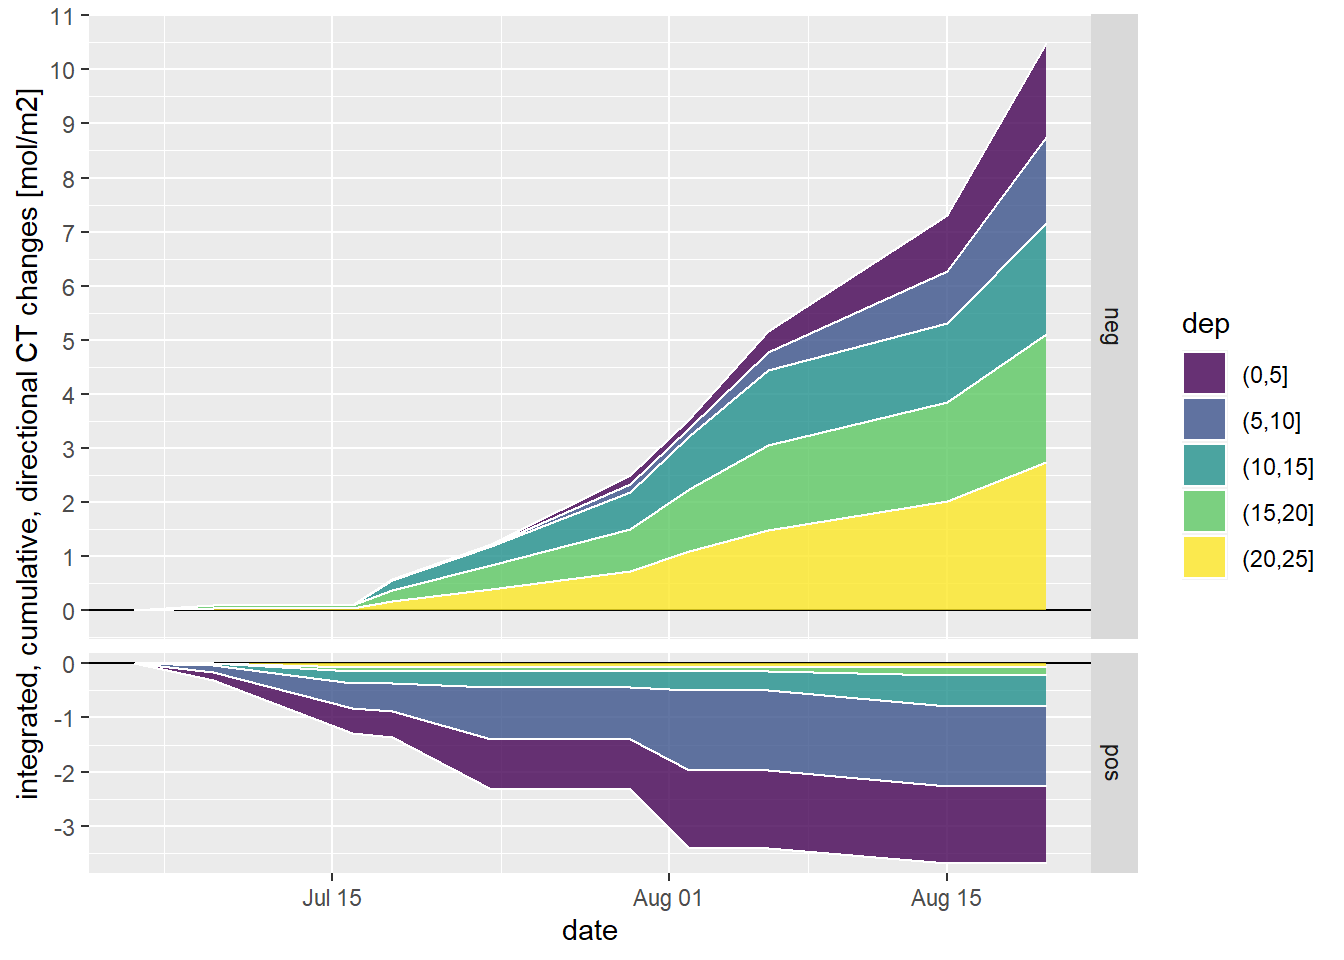
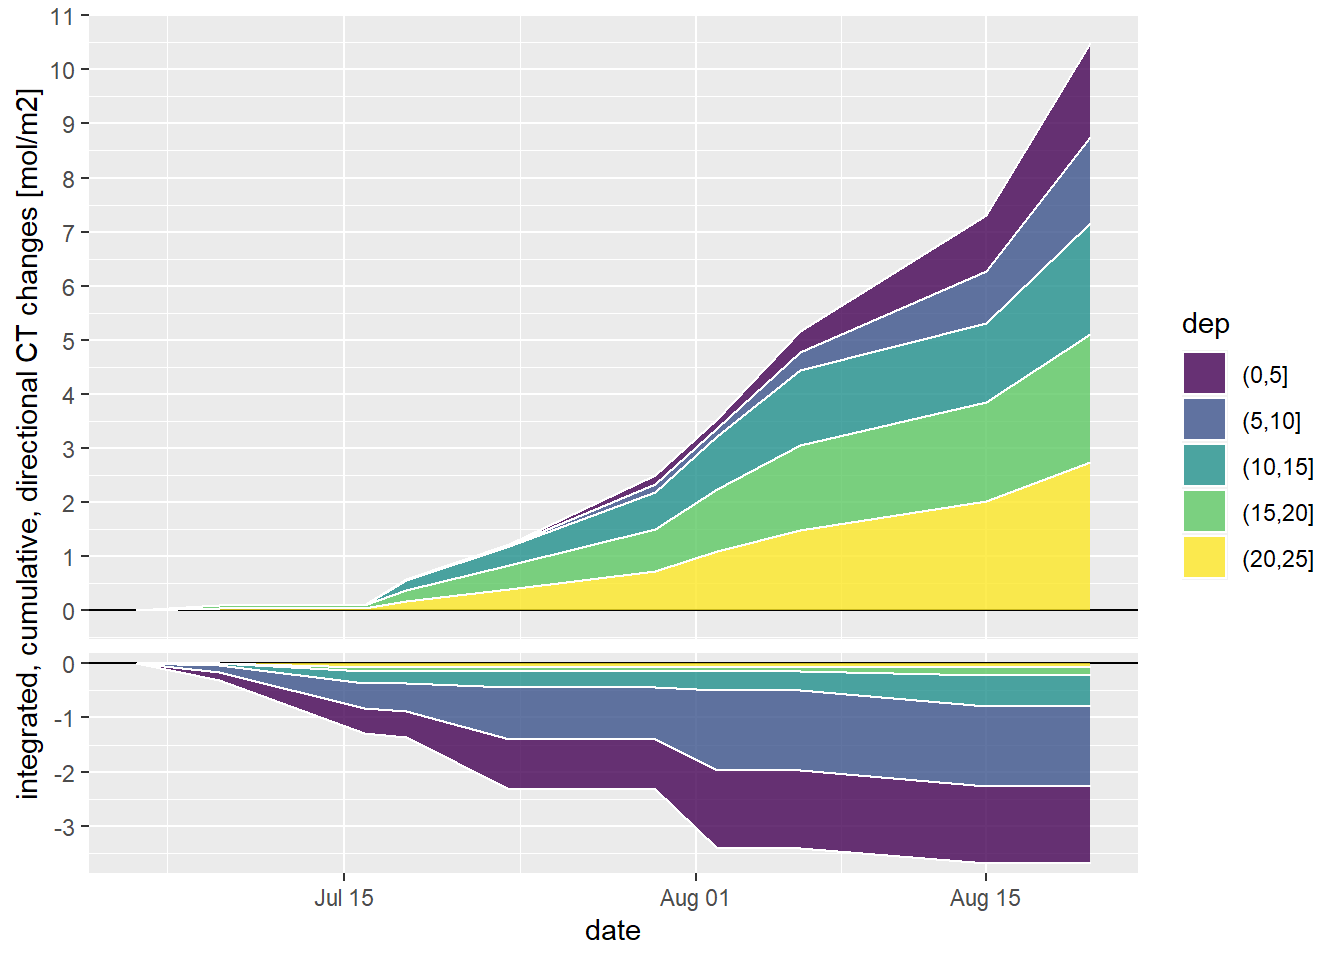
Build site.

diff --git a/docs/CT_dynamics.html b/docs/CT_dynamics.html
@@ -536,10 +536,10 @@ This reproducible <a href="http://rmarkdown.rstudio.com">R Markdown</a> analysis
 <div class="panel panel-default">
 <div class="panel-heading">
 <p class="panel-title">
-<a data-toggle="collapse" data-parent="#workflowr-checks" href="#strongRepositoryversionstrongahrefhttpsgithubcomjensdanielmuellerBloomSailtreef49ce78698e59e99df795845d046524cb24ccbdctargetblankf49ce78a"> <span class="glyphicon glyphicon-ok text-success" aria-hidden="true"></span> <strong>Repository version:</strong> <a href="https://github.com/jens-daniel-mueller/BloomSail/tree/f49ce78698e59e99df795845d046524cb24ccbdc" target="_blank">f49ce78</a> </a>
+<a data-toggle="collapse" data-parent="#workflowr-checks" href="#strongRepositoryversionstrongahrefhttpsgithubcomjensdanielmuellerBloomSailtree39b841d766f959c5a6b80198d430c662d28478fatargetblank39b841da"> <span class="glyphicon glyphicon-ok text-success" aria-hidden="true"></span> <strong>Repository version:</strong> <a href="https://github.com/jens-daniel-mueller/BloomSail/tree/39b841d766f959c5a6b80198d430c662d28478fa" target="_blank">39b841d</a> </a>
 </p>
 </div>
[2 lines of base64/hex data omitted]
 <div class="panel-body">
 <p>
 Great! You are using Git for version control. Tracking code development and connecting the code version to the results is critical for reproducibility. The version displayed above was the version of the Git repository at the time these results were generated. <br><br> Note that you need to be careful to ensure that all relevant files for the analysis have been committed to Git prior to generating the results (you can use <code>wflow_publish</code> or <code>wflow_git_commit</code>). workflowr only checks the R Markdown file, but you know if there are other scripts or data files that it depends on. Below is the status of the Git repository when the results were generated:
@@ -554,7 +554,7 @@ Ignored files:
     Ignored:    data/_summarized_data_files/
 
 Untracked files:
-    Untracked:  output/Plots/sensor_data/
+    Untracked:  output/Plots/CT_dynamics/
 
 </code></pre>
 <p>
@@ -680,7 +680,7 @@ df &lt;- full_join(df, profiles_in)
 rm(profiles_in)
 
 df %&gt;% 
-  #filter(dep &lt; 30) %&gt;% 
+  filter(dep &lt; 30) %&gt;% 
   arrange(date_time) %&gt;% 
   ggplot(aes(pCO2, dep, col=select))+
   geom_point()+
@@ -893,8 +893,129 @@ Mean vertical profiles per cruise day across all stations, except P14.
 </p>
 </div>
 </div>
+<div id="individual-profiles" class="section level2">
+<h2><span class="header-section-number">3.3</span> Individual profiles</h2>
+<pre class="r"><code>pdf(file=here::here(&quot;output/Plots/CT_dynamics&quot;,
+    &quot;profiles_individual.pdf&quot;), onefile = TRUE, width = 9, height = 5)
+
+for(i_ID in unique(df$ID)){
+  for(i_station in unique(df$station)){
+
+    if (nrow(df %&gt;% filter(ID == i_ID, station == i_station)) &gt; 0){
+      
+      
+      # i_ID      &lt;-      unique(df$ID)[1]
+      # i_station &lt;- unique(df$station)[1]
+
+      p_pCO2 &lt;- 
+        df %&gt;%
+        arrange(date_time) %&gt;% 
+        filter(ID == i_ID,
+               station == i_station) %&gt;%
+        ggplot(aes(pCO2, dep))+
+        geom_point(aes(pCO2_raw, dep), col=&quot;lightgrey&quot;)+
+        geom_point()+
+        geom_path()+
+        scale_y_reverse()+
+        scale_color_brewer(palette = &quot;Set1&quot;)+
+        labs(y=&quot;Depth [m]&quot;, x=&quot;pCO2 [µatm]&quot;, title = str_c(i_ID,&quot; | &quot;,i_station))+
+        coord_cartesian(xlim = c(0,200), ylim = c(30,0))+
+        theme_bw()+
+        theme(legend.position = &quot;left&quot;)
+      
+      p_tem &lt;- 
+        df %&gt;%
+        arrange(date_time) %&gt;% 
+        filter(ID == i_ID,
+               station == i_station) %&gt;%
+        ggplot(aes(tem, dep))+
+        geom_point()+
+        geom_path()+
+        scale_y_reverse()+
+        labs(y=&quot;Depth [m]&quot;, x=&quot;Tem [°C]&quot;)+
+        coord_cartesian(xlim = c(14,26), ylim = c(30,0))+
+        theme_bw()
+      
+      p_sal &lt;- 
+        df %&gt;%
+        arrange(date_time) %&gt;% 
+        filter(ID == i_ID,
+               station == i_station) %&gt;%
+        ggplot(aes(sal, dep))+
+        geom_point()+
+        geom_path()+
+        scale_y_reverse()+
+        labs(y=&quot;Depth [m]&quot;, x=&quot;Tem [°C]&quot;)+
+        coord_cartesian(xlim = c(6.5,7.5), ylim = c(30,0))+
+        theme_bw()
+      
+      p_CT &lt;- 
+        df %&gt;%
+        arrange(date_time) %&gt;% 
+        filter(ID == i_ID,
+               station == i_station) %&gt;%
+        ggplot(aes(CT, dep))+
+        geom_point()+
+        geom_path()+
+        scale_y_reverse()+
+        labs(y=&quot;Depth [m]&quot;, x=&quot;CT* [µmol/kg]&quot;)+
+        coord_cartesian(xlim = c(1400,1700), ylim = c(30,0))+
+        theme_bw()
+      
+
+      print(
+            p_pCO2 + p_tem + p_sal + p_CT
+            )
+      
+      rm(p_pCO2, p_sal, p_tem, p_CT)
+
+      
+    }
+  }
+}
+
+dev.off()
+
+rm(i_ID, i_station)</code></pre>
+<pre class="r"><code>df_long &lt;- df %&gt;%
+  select(-c(lat, lon, pCO2_raw)) %&gt;% 
+  filter(dep &lt; 25) %&gt;% 
+  pivot_longer(5:8, values_to = &quot;value&quot;, names_to = &quot;parameter&quot;)
+
+
+pdf(file=here::here(&quot;output/Plots/CT_dynamics&quot;,
+    &quot;profiles_by_ID.pdf&quot;), onefile = TRUE, width = 9, height = 5)
+
+for(i_ID in unique(df$ID)){
+
+  #i_ID &lt;- unique(df$ID)[1]
+  
+  sub_df_long &lt;- df_long %&gt;% 
+        arrange(date_time) %&gt;% 
+        filter(ID == i_ID)
+ 
+  print(
+  
+  sub_df_long %&gt;% 
+    ggplot()+
+    geom_path(data = df_long, aes(value, dep, group=interaction(station, ID)), col=&quot;grey&quot;)+
+    geom_path(aes(value, dep, col=station))+
+    scale_y_reverse()+
+    labs(y=&quot;Depth [m]&quot;, title = str_c(&quot;ID: &quot;, i_ID))+
+    theme_bw()+
+    facet_wrap(~parameter, scales = &quot;free_x&quot;)
+   
+  )  
+  rm(sub_df_long)
+}
+
+dev.off()
+
+rm(i_ID, df_long)</code></pre>
+<p>C<sub>T</sub>, pCO<sub>2</sub>, S, and T profiles were plotted individually <a href="https://github.com/jens-daniel-mueller/BloomSail/tree/master/output/Plots/CT_dynamics/profiles_individual.pdf" target="_blank">pdf here</a> and grouped by ID <a href="https://github.com/jens-daniel-mueller/BloomSail/tree/master/output/Plots/CT_dynamics/profiles_by_ID.pdf" target="_blank">pdf here</a>.</p>
+</div>
 <div id="profiles-of-incremental-changes" class="section level2">
-<h2><span class="header-section-number">3.3</span> Profiles of incremental changes</h2>
+<h2><span class="header-section-number">3.4</span> Profiles of incremental changes</h2>
 <p>Changes of seawater parameters at each depth are calculated from one cruise day to next and divided by the number of days inbetween.</p>
 <pre class="r"><code>mean_profiles_long &lt;- mean_profiles_long %&gt;%
     group_by(parameter, dep) %&gt;%
@@ -918,7 +1039,7 @@ mean_profiles_long %&gt;%
 <p><img src="figure/CT_dynamics.Rmd/incremental_changes_profiles-1.png" width="672" style="display: block; margin: auto;" /></p>
 </div>
 <div id="profiles-of-cumulative-changes" class="section level2">
-<h2><span class="header-section-number">3.4</span> Profiles of cumulative changes</h2>
+<h2><span class="header-section-number">3.5</span> Profiles of cumulative changes</h2>
 <p>Cumulative changes of seawater parameters at each depth relative to the first cruise day on July 5.</p>
 <pre class="r"><code>mean_profiles_long %&gt;% 
   arrange(dep) %&gt;% 
@@ -1013,6 +1134,8 @@ NCP %&gt;%
   scale_color_viridis_d()+
   scale_y_continuous(breaks = seq(-100, 100, 1))+
   facet_grid(rev(sign)~., scales = &quot;free_y&quot;, space = &quot;free_y&quot;)+
+  theme(strip.background = element_blank(),
+        strip.text = element_blank())+
   labs(y=&quot;integrated, cumulative, directional CT changes [mol/m2]&quot;, x=&quot;date&quot;)</code></pre>
 <p><img src="figure/CT_dynamics.Rmd/integrated_NCP-1.png" width="672" style="display: block; margin: auto;" /></p>
 <pre class="r"><code>mean_profiles %&gt;% 
@@ -1035,88 +1158,6 @@ mean_profiles_long %&gt;%
   geom_point()+
   scale_color_divergent()+
   scale_y_reverse()</code></pre>
-<pre class="r"><code>pdf(file=here::here(&quot;output/Plots/sensor_data&quot;,
-    &quot;profiles_check.pdf&quot;), onefile = TRUE, width = 9, height = 5)
-
-for(i_ID in unique(df$ID)){
-  for(i_station in unique(df$station)){
-
-    if (nrow(df %&gt;% filter(ID == i_ID, station == i_station)) &gt; 0){
-      
-      
-      # i_ID      &lt;-      unique(df$ID)[1]
-      # i_station &lt;- unique(df$station)[1]
-
-      p_pCO2 &lt;- 
-        df %&gt;%
-        arrange(date_time) %&gt;% 
-        filter(ID == i_ID,
-               station == i_station) %&gt;%
-        ggplot(aes(pCO2, dep))+
-        geom_point(aes(pCO2_raw, dep), col=&quot;lightgrey&quot;)+
-        geom_point()+
-        geom_path()+
-        scale_y_reverse()+
-        scale_color_brewer(palette = &quot;Set1&quot;)+
-        labs(y=&quot;Depth [m]&quot;, x=&quot;pCO2 [µatm]&quot;, title = str_c(i_ID,&quot; | &quot;,i_station))+
-        coord_cartesian(xlim = c(0,200), ylim = c(30,0))+
-        theme_bw()+
-        theme(legend.position = &quot;left&quot;)
-      
-      p_tem &lt;- 
-        df %&gt;%
-        arrange(date_time) %&gt;% 
-        filter(ID == i_ID,
-               station == i_station) %&gt;%
-        ggplot(aes(tem, dep))+
-        geom_point()+
-        geom_path()+
-        scale_y_reverse()+
-        labs(y=&quot;Depth [m]&quot;, x=&quot;Tem [°C]&quot;)+
-        coord_cartesian(xlim = c(14,26), ylim = c(30,0))+
-        theme_bw()
-      
-      p_sal &lt;- 
-        df %&gt;%
-        arrange(date_time) %&gt;% 
-        filter(ID == i_ID,
-               station == i_station) %&gt;%
-        ggplot(aes(sal, dep))+
-        geom_point()+
-        geom_path()+
-        scale_y_reverse()+
-        labs(y=&quot;Depth [m]&quot;, x=&quot;Tem [°C]&quot;)+
-        coord_cartesian(xlim = c(6.5,7.5), ylim = c(30,0))+
-        theme_bw()
-      
-      p_CT &lt;- 
-        df %&gt;%
-        arrange(date_time) %&gt;% 
-        filter(ID == i_ID,
-               station == i_station) %&gt;%
-        ggplot(aes(CT, dep))+
-        geom_point()+
-        geom_path()+
-        scale_y_reverse()+
-        labs(y=&quot;Depth [m]&quot;, x=&quot;CT* [µmol/kg]&quot;)+
-        coord_cartesian(xlim = c(1400,1700), ylim = c(30,0))+
-        theme_bw()
-      
-
-      print(
-            p_pCO2 + p_tem + p_sal + p_CT
-            )
-      
-      rm(p_pCO2, p_sal, p_tem, p_CT)
-
-      
-    }
-  }
-}
-
-dev.off()
-
-rm(i_ID, i_station)</code></pre>
 </div>
 </div>
 <div id="open-tasks-questions" class="section level1">
@@ -1124,7 +1165,7 @@ rm(i_ID, i_station)</code></pre>
 <ul>
 <li>Significance of changes in AT for calculated CT changes</li>
 <li>Harmonize selection of profiles for tau optimization and BGC interpretation (how many missing discrete depth intervals are allowed?)</li>
-<li>Vergleich der Stationen</li>
+<li>Compare stations</li>
 </ul>
 <br>
 <p>
